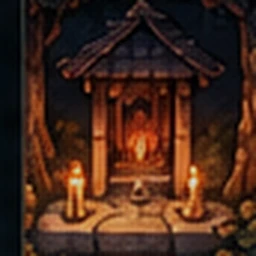
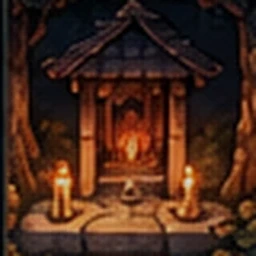
fix: [ENV-POLISH-A] 1장 환경 이음새·이동 범위 가독성 - env_dirt·env_shrine 검은 띠 없는 파일로 교체, 1장 환경 칸 이동 범위 .35·테두리 .72(공격보다 약하게), 🏮💧 표식 진하기·그림자, 유닛 크기·맵·판정·2~5장 변경 없음
Claude-Session: https://claude.ai/code/session_01EmF9GJCvFbzTipZNHHLaCs

diff --git a/joseon-exorcist/index.html b/joseon-exorcist/index.html
@@ -90,6 +90,11 @@
   /* ENV-PHASE-A (1장만): 지형 칸 배경 그림. 그림이 없거나 실패하면 위 지형 색이 그대로 보인다 */
   .cell.env-ch1 { background-size: cover; background-position: center; background-repeat: no-repeat; }
   .cell.env-ch1.t-rock .mark { opacity: .2; } /* 그림 속 집·바위와 🛖 이 겹쳐 보여 D 표식만 조금 옅게 (숨기지 않음). 🏮 💧 는 그대로 */
+  /* ENV-POLISH-A (1장 환경 칸만): 흙 그림 위에서도 이동 범위가 보이게 조금 진하게 — 공격(.38 · 주홍 2px)보다는 약하게 */
+  .cell.env-ch1.hl-move::after { background: rgba(126, 156, 176, .35); box-shadow: inset 0 0 0 1px rgba(150, 182, 202, .72); }
+  /* 🏮 💧 가 그림에 묻히지 않게 (표식·배경 상자는 그대로, 진하기와 그림자만) */
+  .cell.env-ch1.t-shrine .mark,
+  .cell.env-ch1.t-spring .mark { opacity: .72; text-shadow: 0 1px 2px rgba(0, 0, 0, .9), 0 0 3px rgba(0, 0, 0, .65); }
   .t-escape { background: var(--escape); box-shadow: inset 0 0 0 1px #3f6b48; } /* 2장 탈출로(숲길): 예전 그대로 */
   /* 5장 성문: 등장 전에는 조용한 먹색 + 표찰, 운반자가 향하는 성문만 주홍 테두리 */
   .t-escape.gate { background: var(--gate); box-shadow: inset 0 0 0 1px rgba(117, 106, 88, .75); }

diff --git a/joseon-exorcist/QA-ENV-PHASE-A.md b/joseon-exorcist/QA-ENV-PHASE-A.md
@@ -48,3 +48,13 @@
 - **DESIGN**: 배경이 생겨 이동 범위 강조(옅은 청회색)가 흙 그림 위에서는 이전보다 조금 덜 두드러진다. 색·테두리 값은 작업 전과 같음 (자동 판정)
 - **DESIGN**: 서낭당 🏮 표식은 붉은 서낭당 그림과 색이 비슷해 거의 안 보인다 (그림이 서낭당으로 읽혀 의미는 전달됨)
 - 기존 BUG (고치지 않음): 첫 화면에서 1장 유닛 토큰 9개를 불러옴 (환경 그림은 부르지 않음)
+
+## ENV-POLISH-A — 이음새 · 이동 범위 · M/K 표식 (2026-09-27)
+- `env_dirt.webp` · `env_shrine.webp` 2개만 새 파일로 덮어씀 (다른 환경 그림 4개 그대로)
+  - 가장자리 16px 평균 밝기 / 가운데: env_dirt 오른쪽 **9 → 44** (가운데 70) · env_shrine 왼쪽 **10 → 37** (가운데 57) — 검은 띠 없음
+- 1장 환경 칸의 이동 범위만: 청회색 .30 → **.35**, 테두리 1px .55 → **.72** (전역 `.hl-move` 값·2~5장 그대로)
+  - 지시 수치는 .38 이었으나 공격 강조 바탕도 .38 이라 같아진다 → 허용 범위(±.03) 안에서 .35 로 두어 "이동 < 공격" 위계를 지킴 (공격은 주홍 .38 + 2px 그대로)
+- 1장 환경 칸의 🏮 💧 만: 진하기 .35 → **.72** + 검은 그림자. 표식 삭제·교체·새 상자 없음. 🛖 는 .2 그대로
+- 확인: `node --test` 343 통과 / 1장 **PASS 23** (이음새 2 · 이동 강조 값 · 공격 위계 · 표식 · 작업 전 `eb2c703` 대비 맵·통과 64칸·M/K·판 344×344·유닛 11개 크기 35.03×35.03·점유율 74% 동일 · 2~4장 이동 강조·표식 전역값 그대로) / 회귀 1장 20 · 2장 25 · 3~4장 34 · 1~4장 32 · 5장 B 17 · A·POLISH 21 · UI 28 · 흐름 19+15 모두 PASS / core 차이 없음
+- 캡처: `qa-shots/env-polish-a/` — `01-start-clean` `02-dirt-no-band` `03-shrine-no-band` `04-move-highlight` `05-shrine-mark` `06-spring-mark` + `07-attack-vs-move` `08-fallback`
+- 남은 것 (DESIGN, 이번 범위 밖 파일): `env_block_rock` 왼쪽(23/36)·`env_spring` 왼쪽(17/31)도 가장자리가 조금 어두워 바위·약수터 칸 왼쪽에 가는 어두운 선이 보인다. 흙 칸의 반복 띠보다 훨씬 약하고 칸 수가 적다

diff --git a/joseon-exorcist/PROGRESS.md b/joseon-exorcist/PROGRESS.md
@@ -247,7 +247,7 @@
   - 새 에셋 6개 `assets/environment/ch1/` · `ENV_ART` + `envArtForCell()` (좌표로 정해지는 그림, 랜덤 없음) · 장 시작 때만 그림
   - 지형 의미·맵·좌표·통과 여부·유닛 크기·유닛 그림 그대로. 1장 환경 칸의 🛖 표식만 0.35 → 0.2
   - 확인: 343 통과 / 1장 환경 21 PASS (작업 전후 맵·통과 64칸·M/K·판 크기·유닛 11개 크기 동일) / 1장 20 · 2장 25 · 3~4장 34 · 1~4장 32 · 5장 B 17 · A·POLISH 21 · UI 28 · 흐름 19+15 PASS — QA-ENV-PHASE-A.md
-  - ART_REVIEW_REQUIRED: env_dirt 오른쪽·env_shrine 왼쪽 끝의 검은 띠가 세로 줄무늬로 보임
+  - ~~ART_REVIEW_REQUIRED: env_dirt 오른쪽·env_shrine 왼쪽 끝의 검은 띠가 세로 줄무늬로 보임~~ → ENV-POLISH-A: 두 파일 교체 + 1장 이동 범위 .35/.72 · 🏮💧 .72+그림자 (343 · 1장 23 · 전 장 회귀 PASS). 남은 것: 바위·약수터 그림 왼쪽 가장자리가 조금 어두움 (범위 밖)
   - **push 안 함 · 미배포**. 커밋 1개
 
 ## 다음에 진행할 작업

diff --git a/joseon-exorcist/TASKS.md b/joseon-exorcist/TASKS.md
@@ -220,5 +220,6 @@
 ## [ENV-PHASE-A 1장 흑석촌 전장 환경] (Issue #24)
 - [x] 환경 에셋 6개 · 1장 지형 칸 배경 그림 (좌표 규칙, 장 시작 때만) · 실패 시 기존 지형 색
 - [x] 작업 전후 맵·통과 여부·M/K·판 크기·유닛 크기 동일 자동 확인 · 1장 360×740 캡처 12장 · 2~5장 회귀
+- [x] ENV-POLISH-A env_dirt·env_shrine 교체 · 1장 이동 범위 · 🏮💧 대비
 - [ ] 기획자 확인 (Game Director 검수)
 
